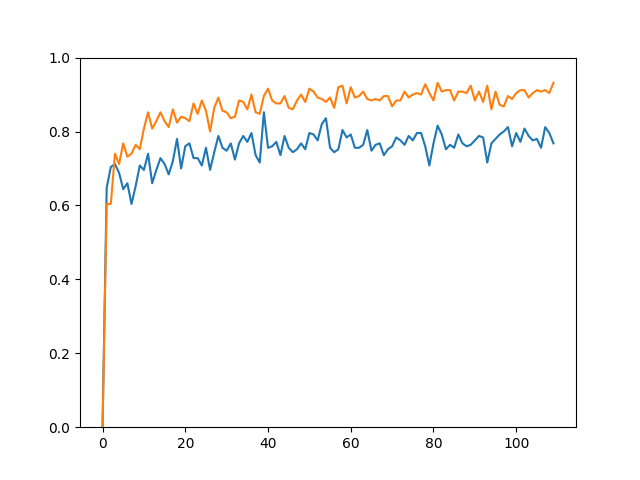
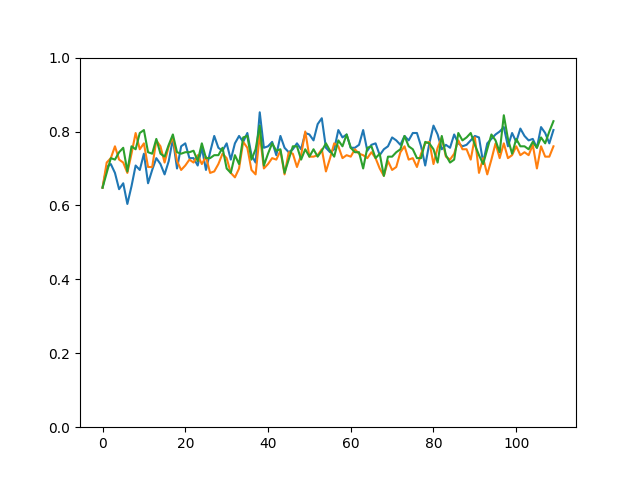
Stuff

Changed region(s): [[0.1562, 0.1562, 0.875, 0.875]]

diff --git a/stream-experiment.py b/stream-experiment.py
@@ -5,6 +5,7 @@ from sklearn.utils import shuffle
 from sklearn.naive_bayes import GaussianNB
 from sklearn.neural_network import MLPClassifier
 import matplotlib.pyplot as plt
+from sklearn.decomposition import PCA
 
 
 class StreamFromFile:
@@ -14,7 +15,7 @@ class StreamFromFile:
         self.X, self.y = self.data["X"], self.data["y"]
         self.X, self.y = shuffle(self.X, self.y, random_state=0)
         self.chunk_size = chunk_size
-        self.chunk_id = 0
+        self.chunk_id = -1
         self.chunk = None
         self.classes_ = np.unique(self.y)
         self.n_chunks = self.y.shape[0] // self.chunk_size
@@ -24,18 +25,23 @@ class StreamFromFile:
         return self.chunk_id >= (self.n_chunks - 1)
 
     def get_chunk(self):
+        self.chunk_id += 1
+        print("CHUNK %i" % self.chunk_id)
         self.previous_chunk = self.chunk
 
         start = self.chunk_id * self.chunk_size
         end = (self.chunk_id + 1) * self.chunk_size
         self.chunk = (self.X[start:end, :], self.y[start:end])
 
-        self.chunk_id += 1
         return self.chunk
 
 
 stream = StreamFromFile("data/cv.npz")
-clfs = [GaussianNB(), MLPClassifier()]
+clfs = [
+    GaussianNB(),
+    sl.ensembles.WAE(GaussianNB(), n_estimators=5),
+    sl.ensembles.SEA(GaussianNB(), n_estimators=5),
+]
 eval = sl.evaluators.TestThenTrain(metrics=(accuracy_score))
 eval.process(stream, clfs)
 
